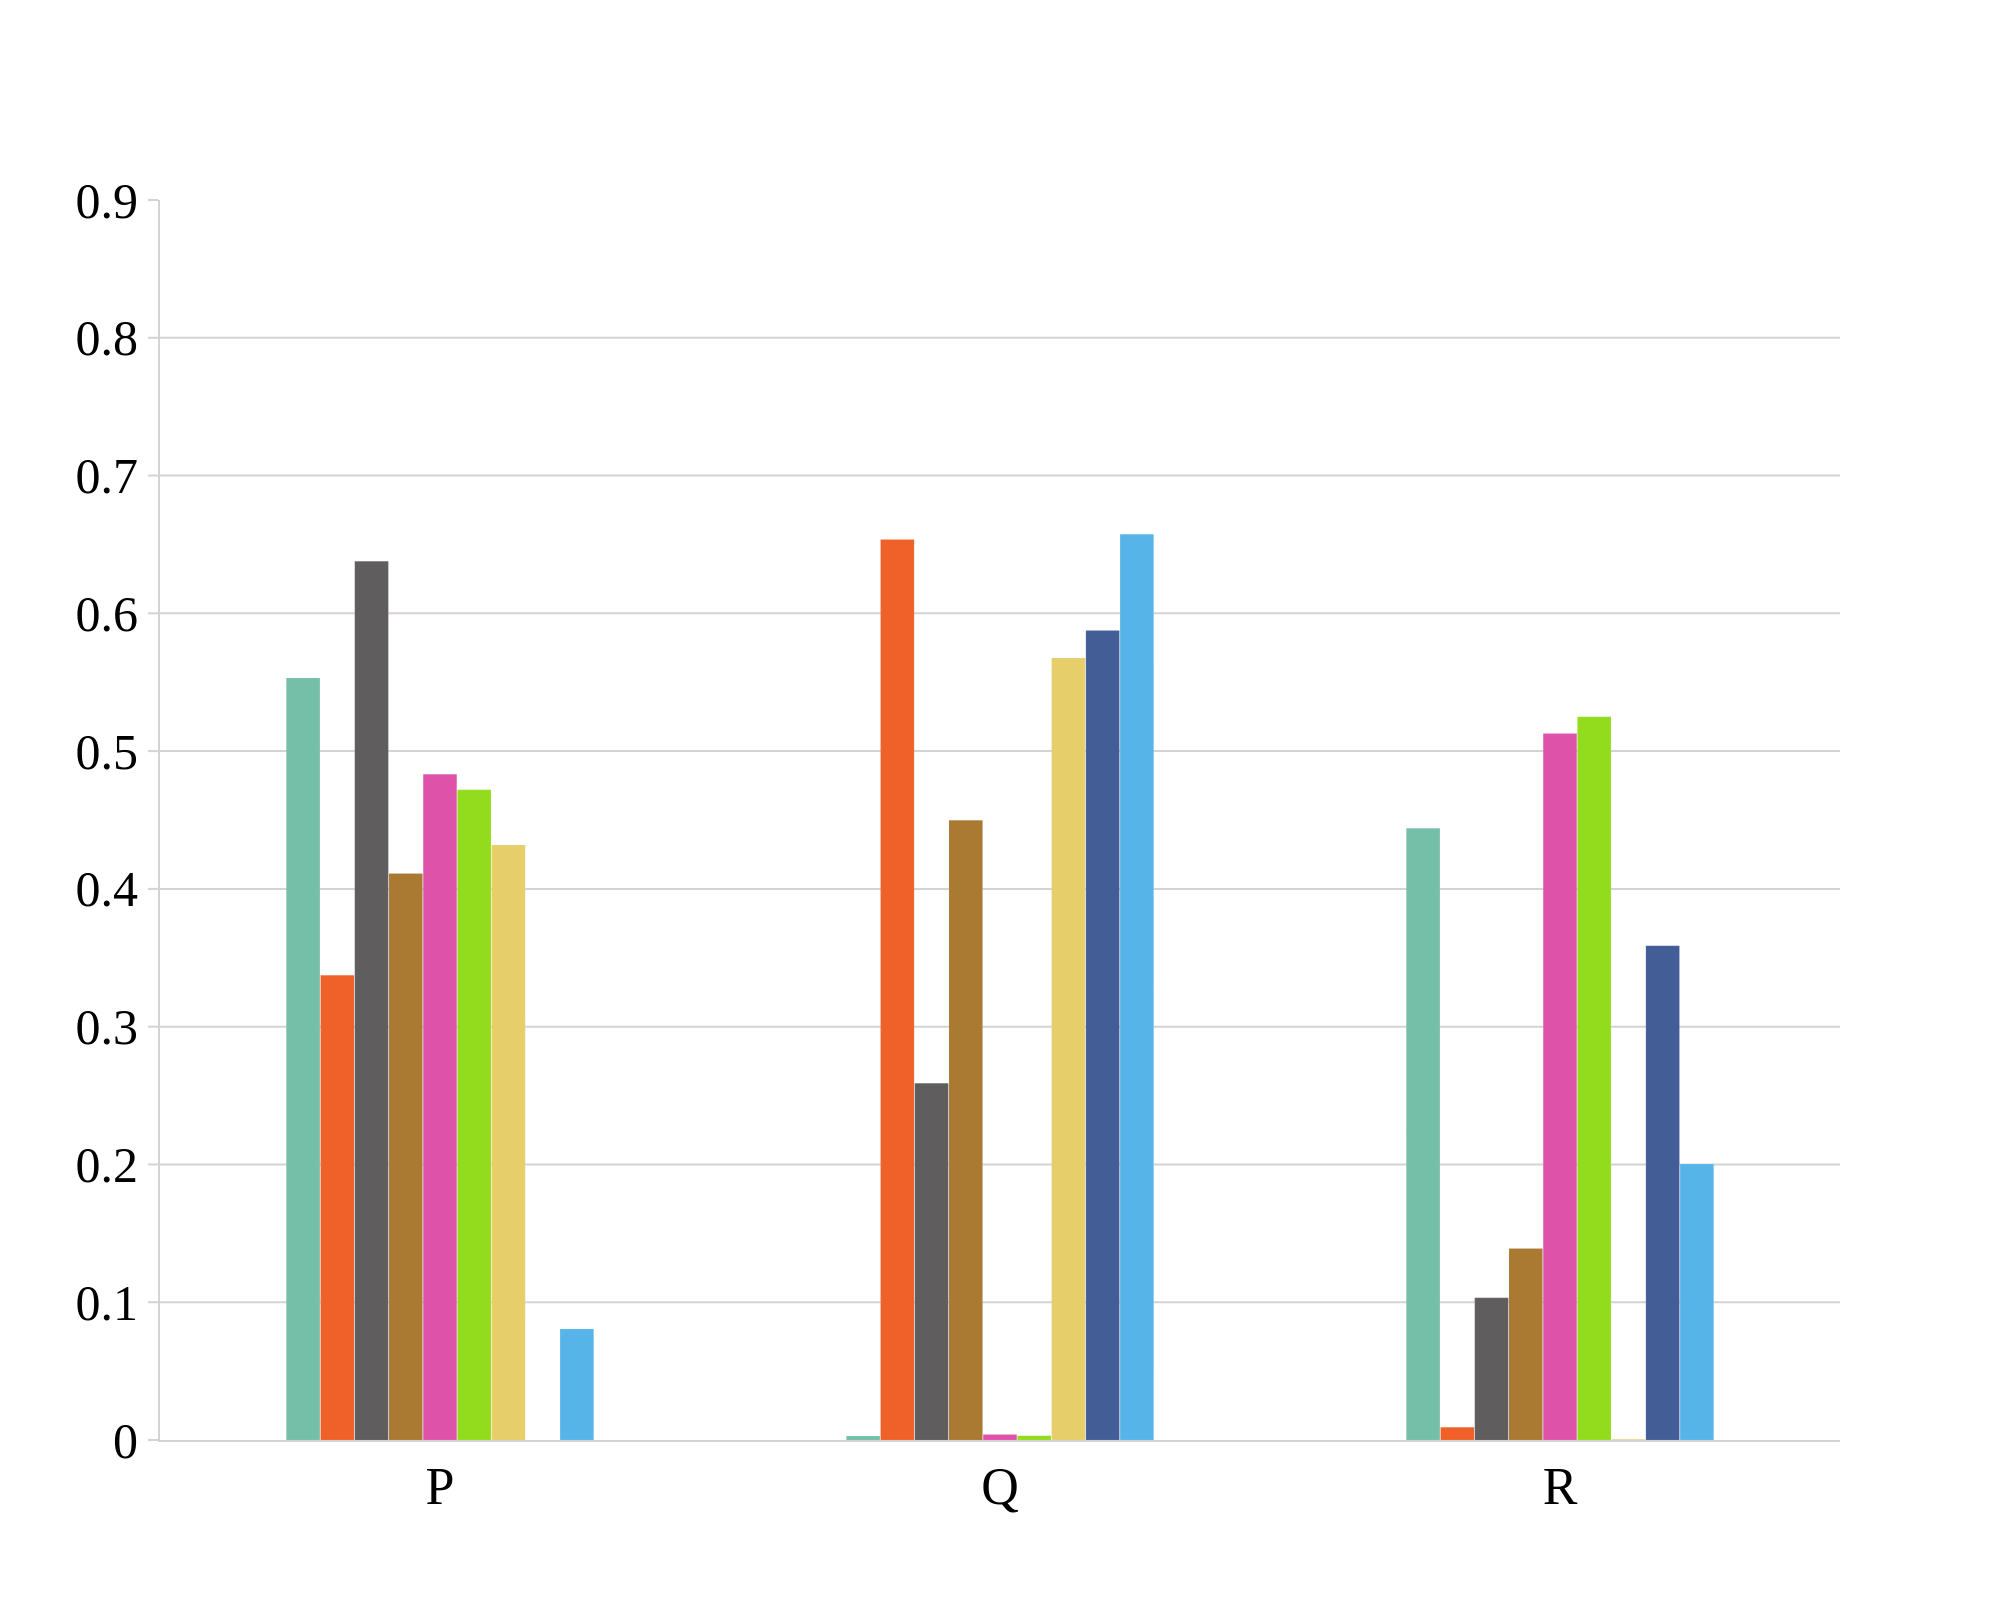
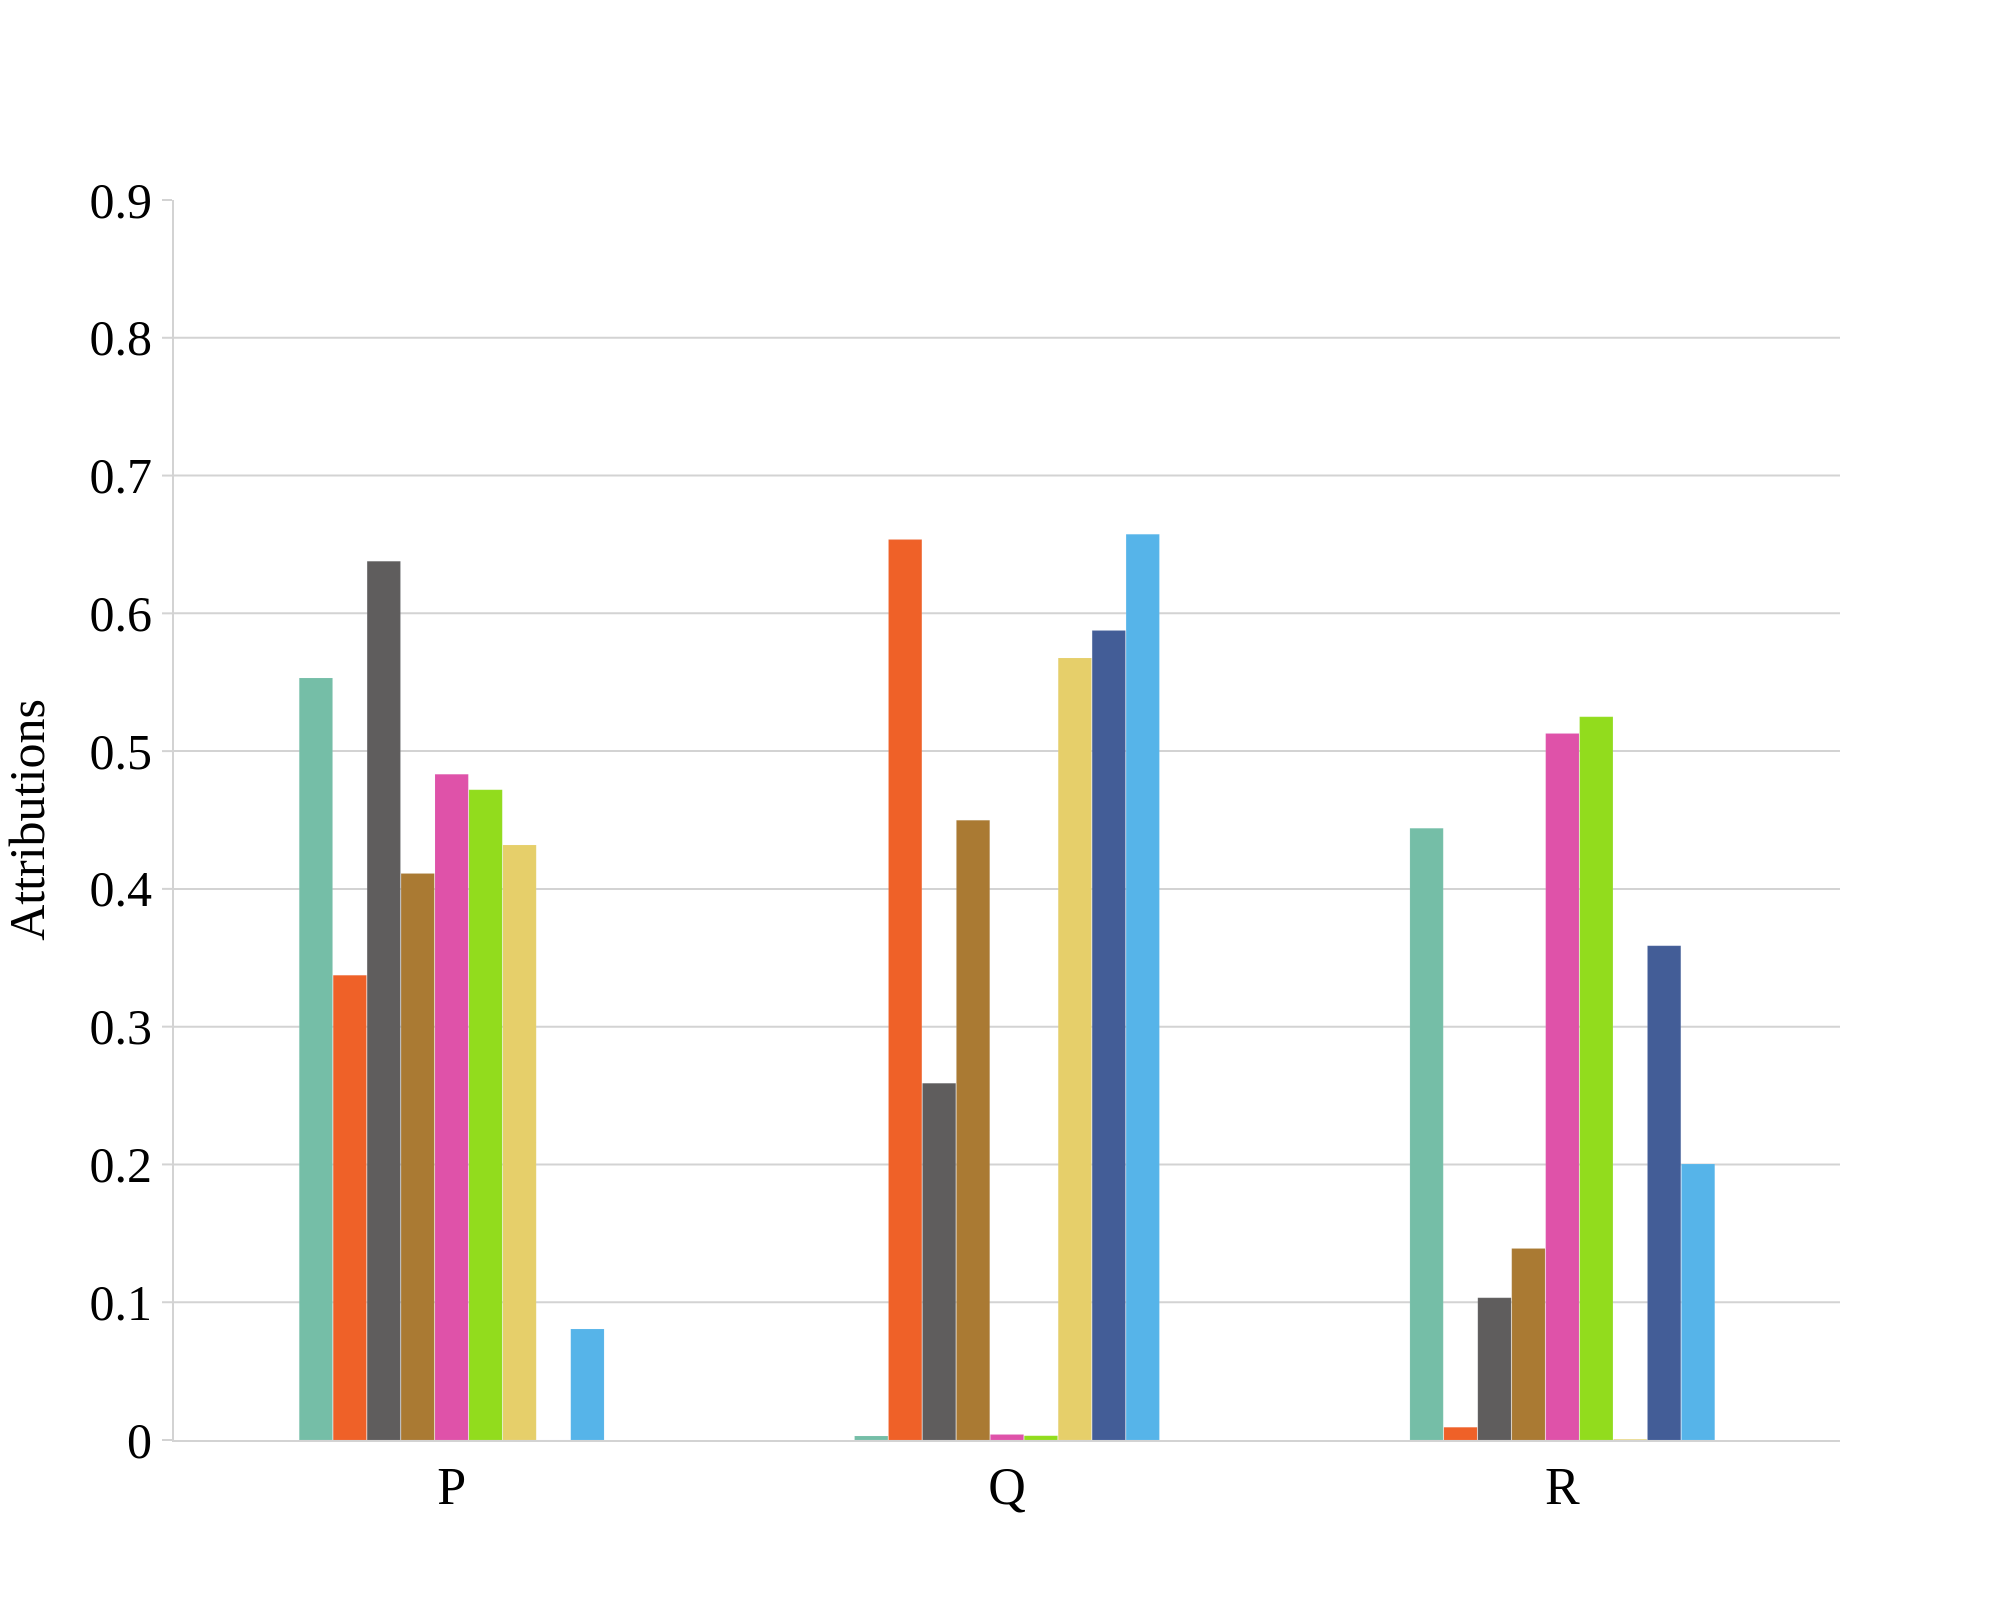
final save for dissertation

diff --git a/utils.py b/utils.py
@@ -4,9 +4,9 @@ import numpy as np
 import pandas as pd
 import ot
 import networkx as nx
-PREFIX = '/home/saptarshi/Dhruv/Dissertation/'
+# PREFIX = '/home/saptarshi/Dhruv/Dissertation/'
 # PREFIX = '/user1/student/mtc/mtc2023/cs2306/Dhruv/Code/'
-# PREFIX = '/home/dhruv/Files/Thesis/Dissertation/Code/'
+PREFIX = '/home/dhruv/Files/Thesis/Dissertation/Code/'
 CONFIG = {'syn' : {'seed' : 1,'train_samples' : 7500, 'test_samples' : 1500,'val_samples' : 1000,'num_features' : 3,
                    'name' : 'syn', 'train_data' : PREFIX + 'datasets/synthetic_dataset/syn-train.csv',
                    'test_data' : PREFIX + 'datasets/synthetic_dataset/syn-test.csv',

diff --git a/generate_attributions.py b/generate_attributions.py
@@ -245,7 +245,7 @@ def generate_attr_plot(global_explanations,config):
     fig.update_layout(
         # title='Global Explanations per Method for Auto Mpg dataset',
         # xaxis_title='Features',
-        # yaxis_title='Attributions',
+        yaxis_title='Attributions',
         barmode='group',  # Group bars side-by-side
         bargap=0.45,  # Close the gap between bars
         bargroupgap=1,  # Add a gap between feature groups
